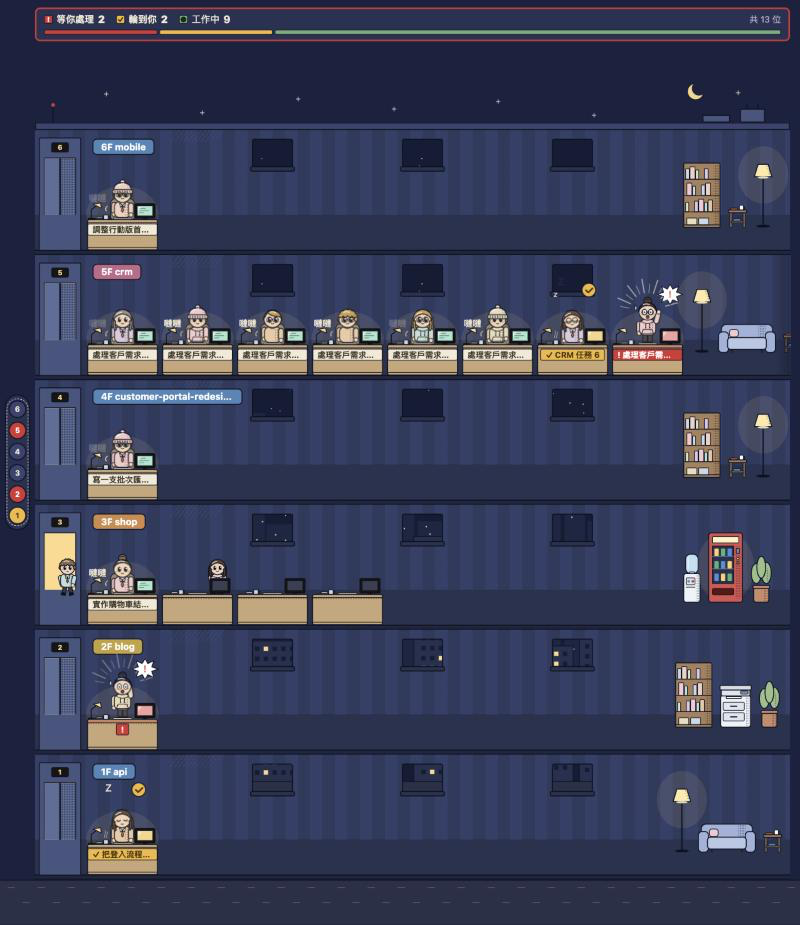
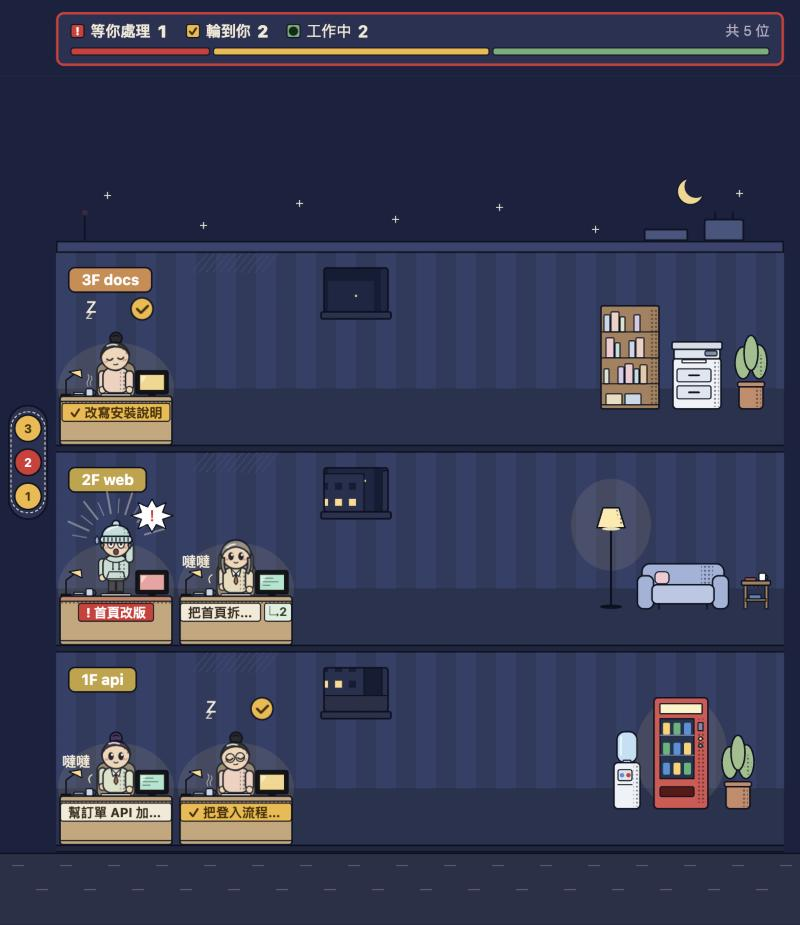
fix: 退場只往上飄 6px，貼紙不蓋招牌；測試改名「退場」並收掉空行；README 日夜截圖重拍成沒有電梯的新畫面

diff --git a/web/src/styles/figure.css b/web/src/styles/figure.css
@@ -38,7 +38,7 @@
 .person[data-fx="in"] .figure { animation: fig-in 600ms ease-out; }
 .person[data-fx="out"] .figure { animation: fig-out 500ms ease-in forwards; }
 @keyframes fig-in { 0% { transform: scale(.6); } 55% { transform: scale(1.12); } 100% { transform: scale(1); } }
-@keyframes fig-out { to { opacity: 0; transform: translateY(-16px); } }
+@keyframes fig-out { to { opacity: 0; transform: translateY(-6px); } } /* 只飄 6px：貼紙頂端 y −23，再高會蓋到招牌（測試檢查） */
 
 /* 工作中：兩手輪流上下（錯開半週期），「噠噠」閃 */
 .person[data-act="work"] .arm-l { animation: fig-type .42s ease-in-out infinite; }

diff --git a/test/floors.test.ts b/test/floors.test.ts
@@ -139,9 +139,7 @@ test('atBottom：沒有捲軸或捲到底（容許 1px）算在最底', () => {
   expect(atBottom(500, 1500, 700)).toBe(false);
 });
 
-
-
-test('withLeaving + vacate：最後一人走去電梯時樓層還在、座位已空、不算提示', () => {
+test('withLeaving + vacate：最後一人退場時樓層還在、座位已空、不算提示', () => {
   const gone = emp('a', 'waiting', { seat: 1 });
   const plan = vacate(floorPlan(withLeaving([], [gone]), none), new Set(['a']));
   expect(plan).toHaveLength(1);

diff --git a/README.md b/README.md
@@ -6,11 +6,11 @@
 
 ![白天的辦公室](docs/images/office-day.png)
 
-*白天（`?time=day`），`npm run simulate` 跑到一半的畫面。*
+*白天（`?time=day`）：三個專案三層樓，有人工作中、等你批准、輪到你，2F 的名牌旁「↳2」是兩位工作中的助理。*
 
 ![夜晚的辦公室](docs/images/office-night.png)
 
-*夜晚（`?time=night`），同一份劇本。*
+*夜晚（`?time=night`），同一個畫面。*
 
 ## 快速開始
 
